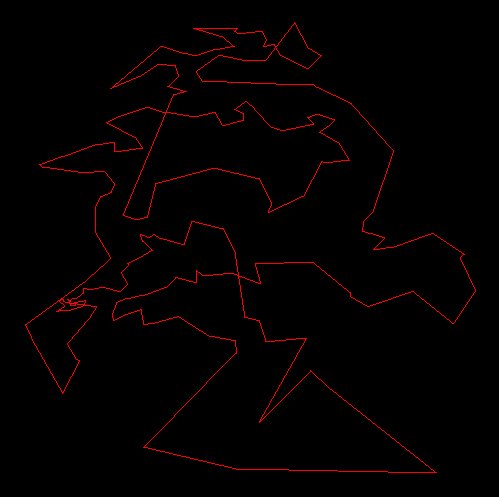
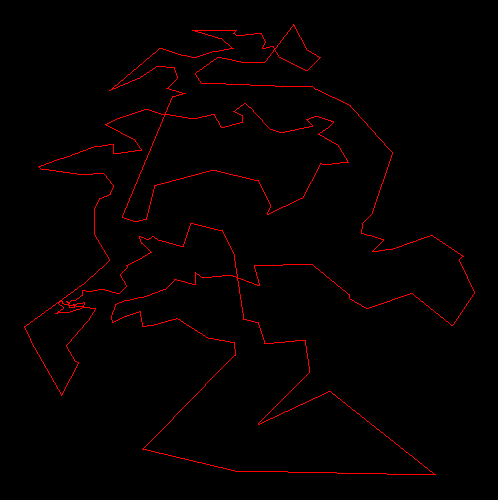
Update of README and Qatar image

diff --git a/README.md b/README.md
@@ -13,13 +13,13 @@ Some of the chromosomes are initially generated using a greedy algorithm (NN), w
 
 Source: <http://www.math.uwaterloo.ca/tsp/world/qatour.html>
 
-* Best result using GA: 10657.99470119157 (341 generations)
+* Best result using GA: 10583.221508542061 (356 generations)
 * Best path using GA: 
 ```
-[54, 48, 46, 38, 40, 43, 47, 51, 39, 34, 31, 32, 30, 35, 42, 50, 55, 49, 44, 41, 37, 27, 12, 10, 9, 5, 15, 19, 73, 84, 100, 110, 112, 115, 116, 117, 121, 120, 123, 124, 128, 133, 135, 129, 131, 136, 143, 148, 155, 151, 147, 152, 141, 144, 150, 153, 157, 154, 139, 138, 142, 146, 149, 145, 140, 137, 134, 132, 127, 125, 126, 114, 109, 113, 119, 122, 118, 106, 105, 107, 108, 158, 159, 162, 167, 170, 171, 166, 160, 185, 180, 178, 181, 184, 188, 193, 192, 191, 189, 190, 187, 183, 186, 179, 172, 169, 176, 182, 194, 174, 173, 175, 177, 168, 165, 164, 163, 161, 156, 130, 111, 104, 101, 99, 94, 89, 90, 98, 86, 85, 65, 20, 63, 36, 59, 62, 82, 80, 71, 76, 75, 78, 72, 74, 69, 60, 57, 45, 29, 22, 28, 33, 18, 21, 24, 26, 17, 14, 11, 7, 3, 2, 1, 6, 8, 4, 16, 13, 23, 25, 87, 102, 103, 91, 93, 96, 95, 97, 92, 88, 83, 81, 79, 77, 70, 64, 68, 66, 67, 61, 58, 56, 53, 52]
+[52, 54, 48, 46, 38, 40, 43, 47, 51, 39, 34, 31, 32, 30, 35, 42, 50, 55, 49, 44, 41, 37, 27, 12, 10, 9, 5, 15, 19, 73, 84, 100, 110, 112, 115, 116, 117, 121, 120, 123, 124, 128, 133, 135, 129, 131, 136, 143, 148, 155, 151, 147, 152, 141, 144, 150, 153, 157, 154, 139, 138, 142, 146, 149, 145, 140, 137, 134, 132, 127, 125, 126, 114, 109, 113, 119, 122, 118, 106, 105, 107, 108, 158, 159, 162, 167, 170, 171, 166, 160, 185, 180, 178, 181, 184, 188, 193, 192, 191, 189, 190, 187, 183, 186, 179, 172, 169, 176, 182, 194, 174, 173, 175, 177, 168, 165, 164, 163, 161, 156, 130, 111, 104, 101, 99, 94, 89, 90, 98, 86, 85, 65, 20, 63, 36, 59, 62, 82, 80, 71, 76, 75, 78, 72, 74, 69, 60, 57, 45, 29, 22, 28, 33, 18, 21, 24, 26, 17, 14, 11, 7, 3, 2, 1, 6, 4, 8, 16, 13, 23, 25, 87, 102, 103, 91, 93, 96, 95, 97, 92, 88, 83, 81, 79, 77, 70, 64, 68, 66, 67, 61, 58, 56, 53]
 ```
 * Optimal result: 9352
-* Error: 13.96 %
+* Error: 13.19 %
 
 ![Qatar path using GA](https://raw.githubusercontent.com/nicolopinci/geneticTSP/master/img/qatar.png "Qatar path using GA")
 
